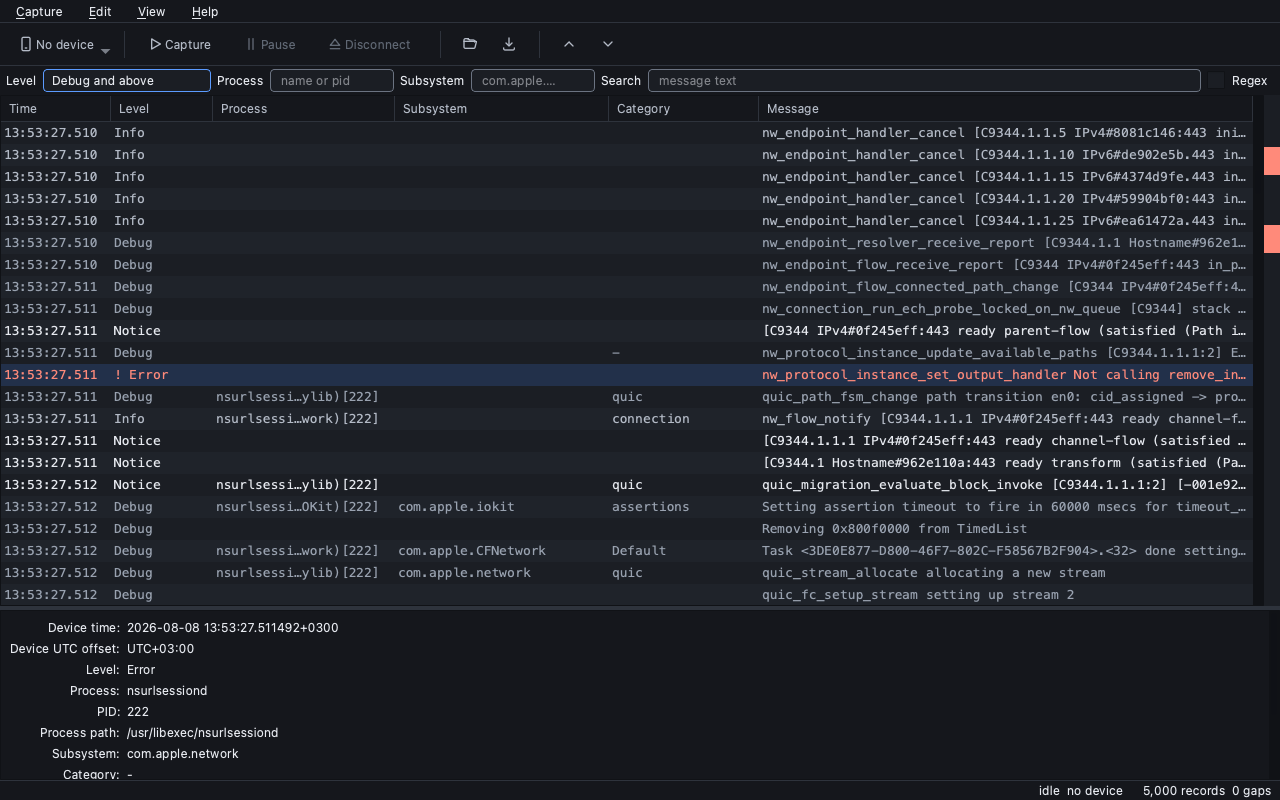
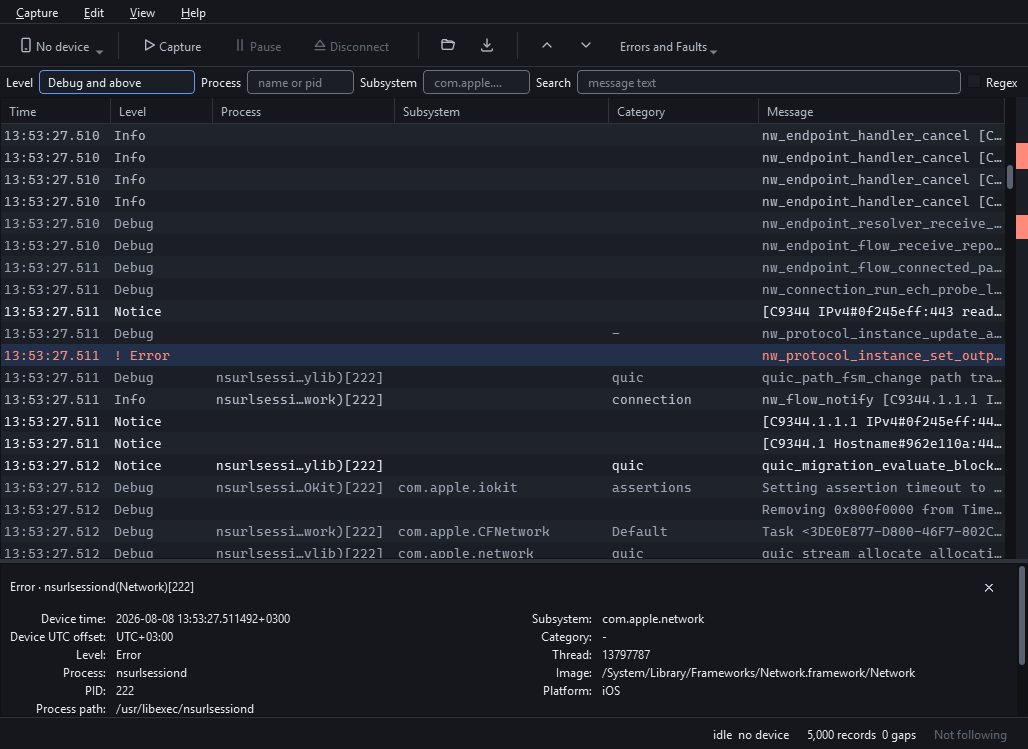
docs: screenshots of the window as it is, on both platforms (#7)
The committed pair was taken before 0.1.1 and had gone quietly stale: no
jump-target control in the toolbar, no follow indicator in the status bar, and a
detail pane that is one narrow column of twelve rows. Somebody comparing them
against the program they had just installed would have found three differences
on the first screen.

There are two pairs now. The Windows one comes from the screenshot job, as the
old one did. The macOS one could not come from there. That job runs the
offscreen plugin, and offscreen resolves the interface font to Qt's generic
`Sans Serif` rather than to `.AppleSystemUIFont` -- so the job's own macOS
picture is right about layout, palette and elision, and wrong about the single
thing anybody looks at a macOS screenshot for. It was rendered under `cocoa` on
a real Mac instead, and `gui.md` §12 now says so, because regenerating that pair
needs hardware and regenerating the other needs only the job.

It is also the first picture of this program on macOS showing the face a Mac
user actually sees, and it shows the menu bar missing from the window, which is
correct: there it belongs to the screen.

ruff, and the screenshot job on both platforms.

diff --git a/README.md b/README.md
@@ -9,8 +9,17 @@ NOTICE-tier text that the legacy `syslog_relay` path returns.
 
 <picture>
   <source media="(prefers-color-scheme: dark)" srcset="https://raw.githubusercontent.com/BerkayCaglar/ostrace/main/docs/images/viewer-dark.png">
-  <img alt="The ostrace viewer showing a capture from an iPhone, with an error selected and every field of it in the detail pane" src="https://raw.githubusercontent.com/BerkayCaglar/ostrace/main/docs/images/viewer-light.png">
+  <img alt="The ostrace viewer on Windows, showing a capture from an iPhone with an error selected and every field of it in the detail pane" src="https://raw.githubusercontent.com/BerkayCaglar/ostrace/main/docs/images/viewer-light.png">
 </picture>
+
+<picture>
+  <source media="(prefers-color-scheme: dark)" srcset="https://raw.githubusercontent.com/BerkayCaglar/ostrace/main/docs/images/viewer-macos-dark.png">
+  <img alt="The same window on macOS, drawn in the system font, with no menu bar inside it because macOS puts one in the screen menu instead" src="https://raw.githubusercontent.com/BerkayCaglar/ostrace/main/docs/images/viewer-macos-light.png">
+</picture>
+
+*Windows above, macOS below — the same capture and the same code, in whichever
+colour scheme you are reading this in. The macOS window carries no menu bar of
+its own: there it belongs to the screen.*
 
 ---
 

diff --git a/CHANGELOG.md b/CHANGELOG.md
@@ -12,6 +12,23 @@ such: the `Record` model and the on-disk export formats documented in
 
 ## [Unreleased]
 
+### Changed
+
+- **The README shows the window as it is, and shows it on both platforms.** The
+  committed screenshots were taken before 0.1.1 and had gone quietly stale: no
+  jump-target control in the toolbar, no follow indicator in the status bar, and
+  a detail pane that is a single narrow column of twelve rows. A reader
+  comparing them against the program they had just installed would have found
+  three differences on the first screen.
+
+  There are now two pairs. The Windows one comes from the screenshot job, as
+  before. The macOS one could not: that job runs the offscreen plugin, which
+  resolves the interface font to Qt's generic `Sans Serif` rather than to
+  `.AppleSystemUIFont` — right about layout and palette, wrong about the one
+  thing anybody looks at a macOS screenshot for. It was rendered under `cocoa`
+  on a real Mac, which is the first picture of this program on macOS that shows
+  the face a Mac user actually sees.
+
 ### Fixed
 
 - **The detail pane drew the previous record's rows over the new one.**

diff --git a/docs/design/gui.md b/docs/design/gui.md
@@ -657,6 +657,14 @@ gate. It renders each screen in both schemes and uploads with
 `if-no-files-found: error`, so a silent capture failure fails the run rather
 than producing an empty artifact nobody notices.
 
+The two images in the README come from there. The **macOS pair does not**, and
+the difference is the point: under `offscreen` the interface font resolves to
+Qt's generic `Sans Serif` rather than to `.AppleSystemUIFont`, so the job's own
+macOS picture is right about layout, palette and elision and wrong about the
+one thing a reader looks at a macOS screenshot for. Those two were rendered
+under `cocoa` on a real Mac. Anyone regenerating them needs one; regenerating
+the Windows pair needs only the job.
+
 ### The screenshot job cannot show the macOS menu bar, and that is structural
 
 The first run made this plain. On macOS under the offscreen plugin the window
